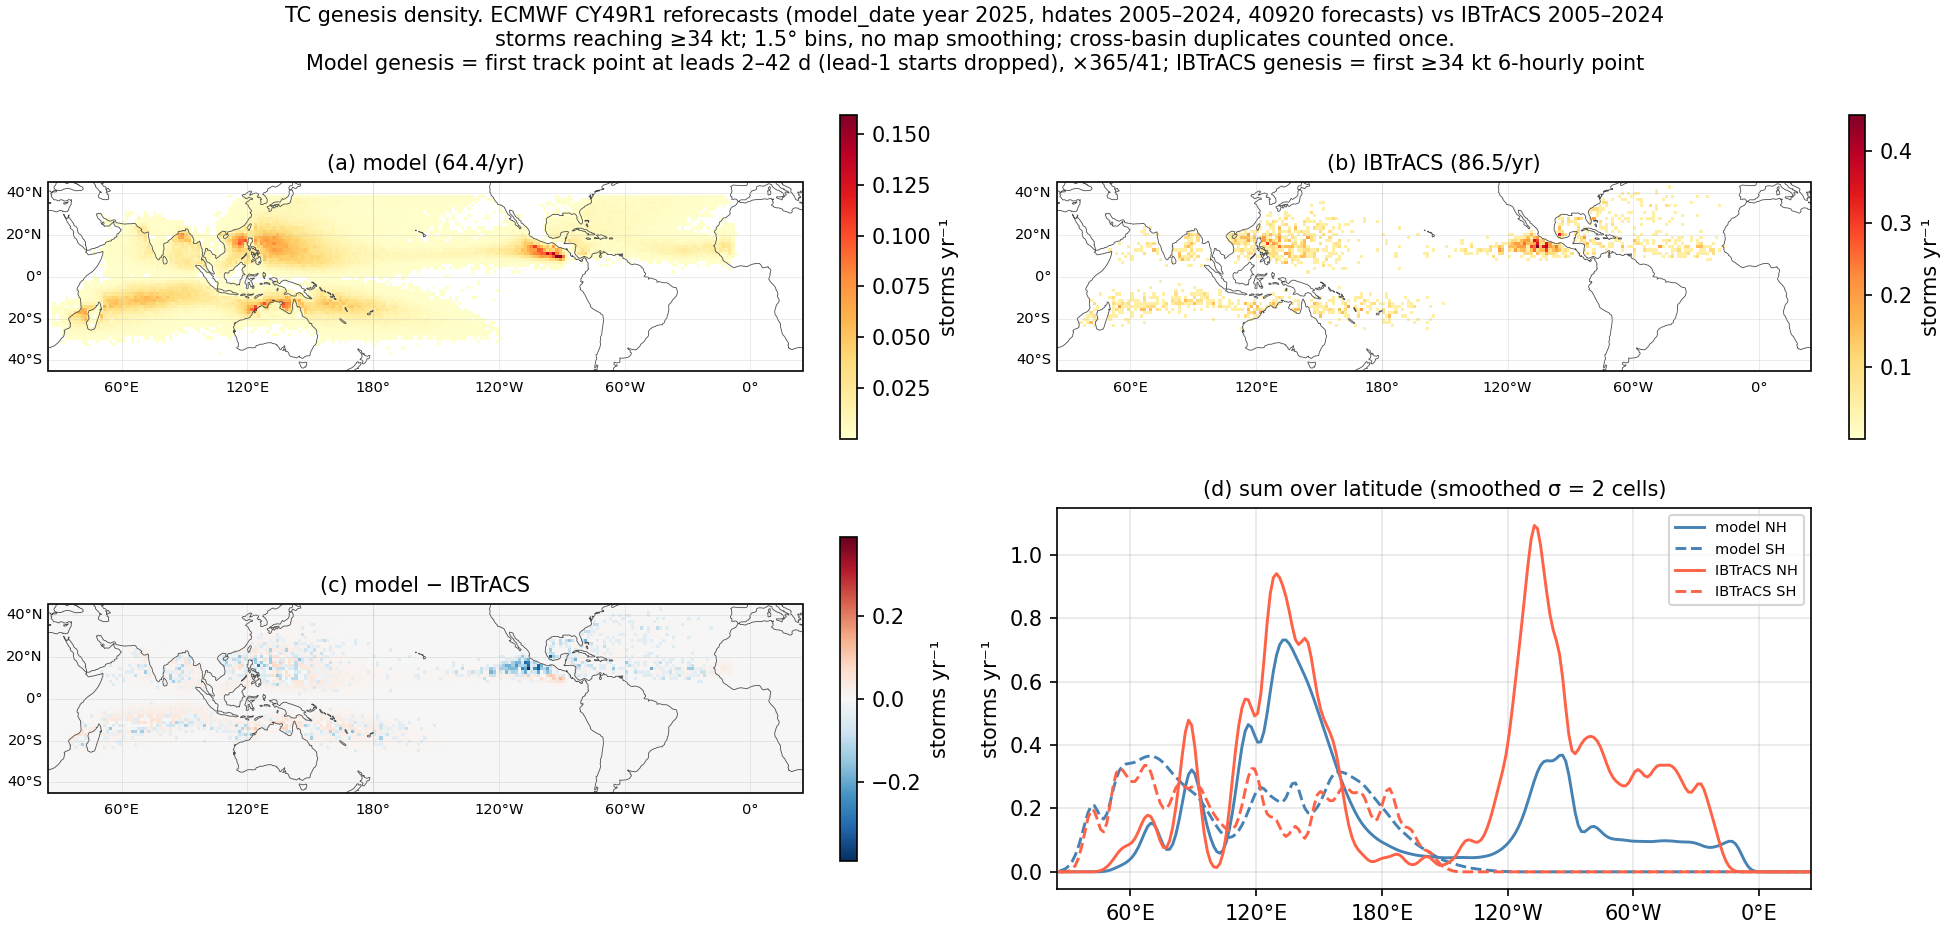
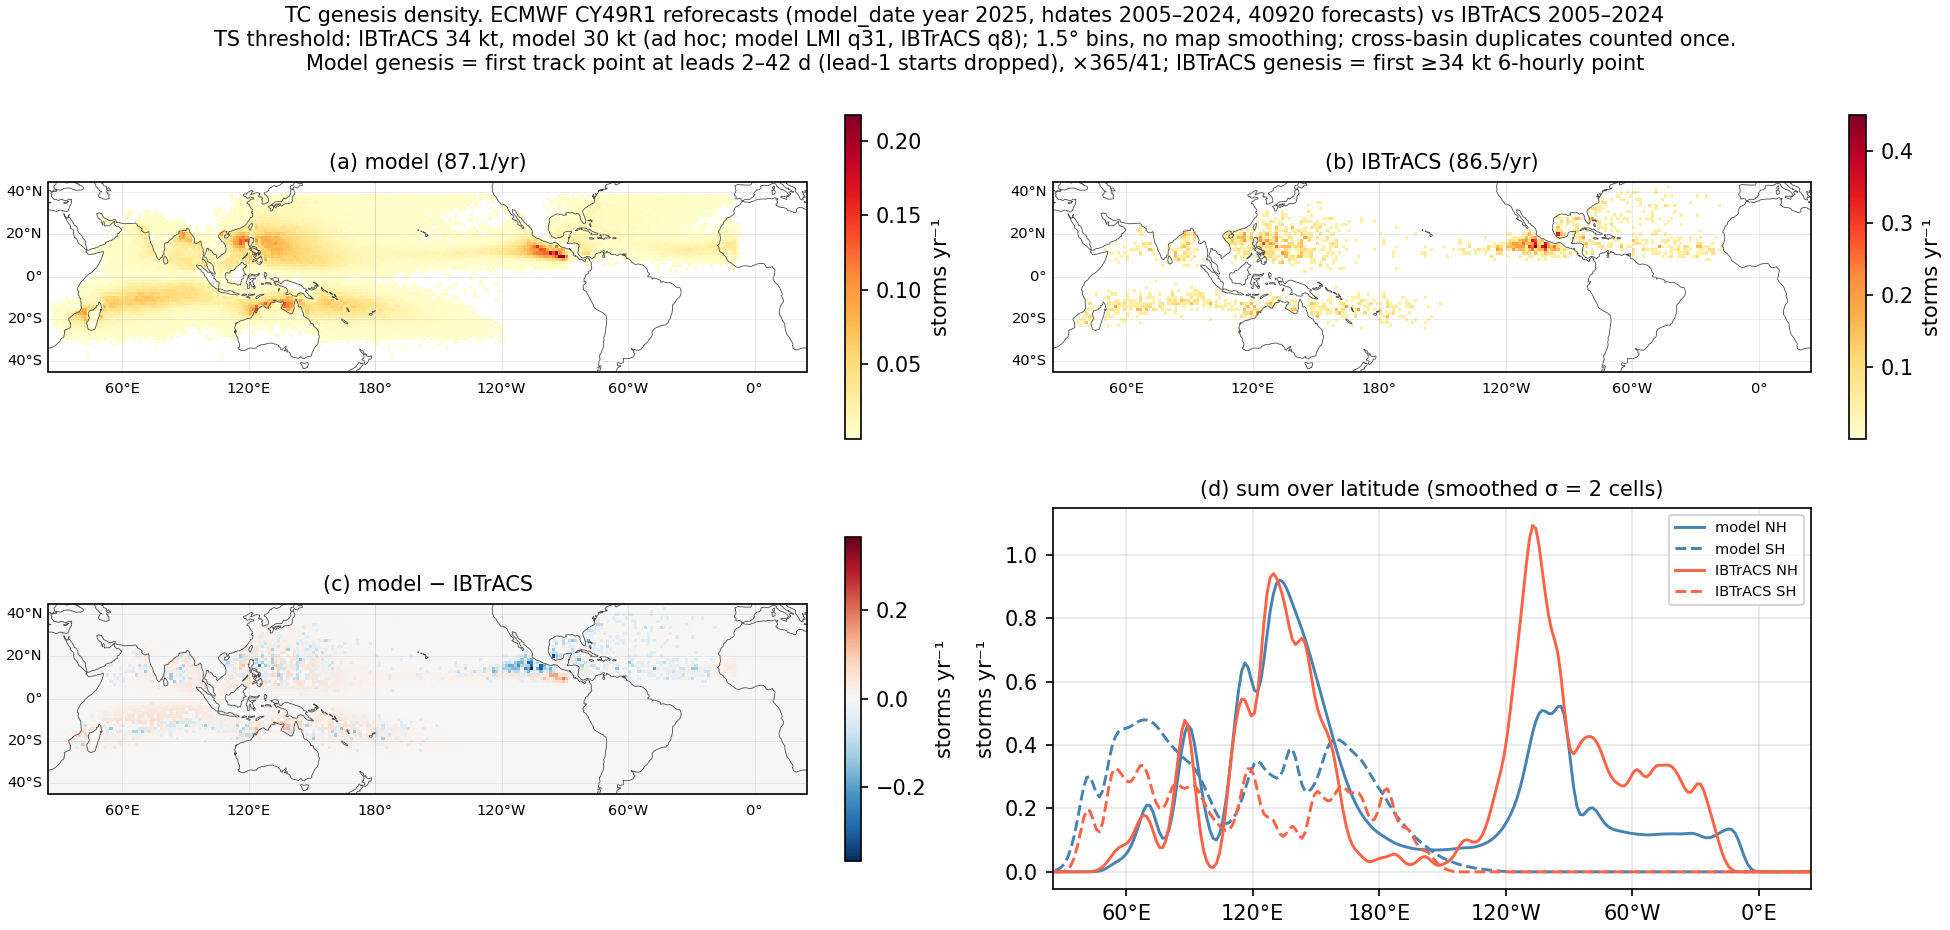
Sanity plots: ad hoc 30 kt model TS threshold
Model storms count at LMI >= 30 kt (IBTrACS 34 kt), an ad hoc choice that roughly matches
the observed global count; LMI quantiles of both thresholds are printed and shown in titles.
Spec documents the rejected alternatives (34 kt; LMI quantile matching after Lee et al. 2018).

diff --git a/scripts/sanity_plots.py b/scripts/sanity_plots.py
@@ -10,7 +10,9 @@ details go in the suptitles):
   04  monthly genesis count by source basin
 
 Definitions (see README "Sanity plots"):
-- Storms count only if lifetime max wind >= 34 kt (model and IBTrACS alike).
+- Tropical-storm threshold: IBTrACS 34 kt; model MODEL_TS_KT = 30 kt, an ad hoc choice for
+  sanity checking (see the constant). Storms count if lifetime max intensity (LMI) >=
+  threshold, and track points if wind >= threshold.
 - Model genesis = first track point. Storms whose first point is at lead 1 are dropped,
   since storms present at initialization first appear at lead 1 (no lead-0 point).
   Genesis rates use leads 2-42 and are scaled by 365/41; track-point rates use leads
@@ -41,7 +43,13 @@ MAP_CRS = ccrs.PlateCarree(central_longitude=205)  # Pacific-centred display
 CENTER_LON = 205
 EXTENT_LAT = (-45, 45)
 GRID = 1.5  # deg, density bins (S2S archive resolution)
-TS_KT = 34
+TS_KT = 34  # observed (IBTrACS) tropical-storm threshold
+# Model TS threshold: AD HOC choice (user, 2026-10-18) for these sanity checks; may be
+# revised. 30 kt is the model LMI 31st percentile (ECMWF 2025) and roughly matches the observed
+# global storm count. A quantile-matched value (Lee et al. 2018) would be 24 kt (q = 8.1%
+# from IBTrACS 2005-2024) or 27 kt (their 18%). The IBTrACS LMI quantile of 34 kt is still
+# printed as a diagnostic.
+MODEL_TS_KT = 30
 LEAD_MAX = 42
 BASIN_LABELS = {"atl": "N Atlantic", "enp": "E N Pacific", "cnp": "Central Pacific",
                 "wnp": "W N Pacific", "nin": "N Indian", "sin": "S Indian",
@@ -76,16 +84,22 @@ def dedup(p):
     return gen_ok, keep
 
 
-def model_events(p):
-    """Genesis rows (one per counted storm) and track points for storms reaching 34 kt."""
+def model_events(p, thr):
+    """Genesis rows and track points for model storms with LMI >= thr (kt).
+
+    Also returns the model LMI quantile of thr over the genesis-eligible population
+    (deduplicated, first point at leads 2..LEAD_MAX), as a diagnostic.
+    Returns (gen, pts, q_model).
+    """
     gen_ok, keep = dedup(p)
-    maxw = p.groupby("storm_uid").wind_kt.max()
-    ts_storms = maxw.index[maxw >= TS_KT]
+    lmi = p.groupby("storm_uid").wind_kt.max()
     first = p[p.point_num == 0].set_index("storm_uid")
-    gen = first.loc[first.index.isin(ts_storms) & gen_ok.reindex(first.index).to_numpy()]
-    gen = gen[gen.lead_days.between(2, LEAD_MAX)]
-    pts = p[keep & p.storm_uid.isin(ts_storms) & (p.wind_kt >= TS_KT) & (p.lead_days <= LEAD_MAX)]
-    return gen.reset_index(), pts
+    first = first[gen_ok.reindex(first.index).to_numpy() & first.lead_days.between(2, LEAD_MAX)]
+    q_model = float((lmi.reindex(first.index) < thr).mean())
+    ts_storms = lmi.index[lmi >= thr]
+    gen = first[first.index.isin(ts_storms)]
+    pts = p[keep & p.storm_uid.isin(ts_storms) & (p.wind_kt >= thr) & (p.lead_days <= LEAD_MAX)]
+    return gen.reset_index(), pts, q_model
 
 
 def ibtracs_basin(df):
@@ -104,9 +118,14 @@ def load_ibtracs(years):
                      usecols=["SID", "BASIN", "ISO_TIME", "NATURE", "TRACK_TYPE", "LAT", "LON", "USA_WIND"])
     df["ISO_TIME"] = pd.to_datetime(df.ISO_TIME)
     df["USA_WIND"] = pd.to_numeric(df.USA_WIND, errors="coerce")
-    df = df[(df.TRACK_TYPE == "main") & (df.NATURE == "TS") & (df.USA_WIND >= TS_KT)
-            & df.ISO_TIME.dt.hour.isin([0, 6, 12, 18]) & (df.ISO_TIME.dt.minute == 0)
-            & df.ISO_TIME.dt.year.isin(years)].copy()
+    df = df[(df.TRACK_TYPE == "main") & (df.NATURE == "TS")
+            & df.ISO_TIME.dt.hour.isin([0, 6, 12, 18]) & (df.ISO_TIME.dt.minute == 0)]
+    # observed LMI distribution: storms (incl. depression-only) first seen in `years`
+    first_year = df.groupby("SID").ISO_TIME.min().dt.year
+    lmi = df[df.SID.isin(first_year.index[first_year.isin(years)])].groupby("SID").USA_WIND.max().dropna()
+    q = float((lmi < TS_KT).mean())
+    print(f"IBTrACS LMI: {len(lmi)} storms with USA_WIND; P(LMI < {TS_KT} kt) = {q:.3f}")
+    df = df[(df.USA_WIND >= TS_KT) & df.ISO_TIME.dt.year.isin(years)].copy()
     df["lat"] = df.LAT.astype(float)
     df["lon360"] = df.LON.astype(float) % 360
     df["basin"] = ibtracs_basin(df)
@@ -114,7 +133,7 @@ def load_ibtracs(years):
     pts = df[df.ISO_TIME.dt.hour == 0]
     print(f"IBTrACS {min(years)}-{max(years)}: {len(gen)} storms >= {TS_KT} kt; "
           f"genesis basin 'other' (e.g. S Atlantic): {(gen.basin == 'other').sum()}")
-    return gen, pts
+    return gen, pts, q
 
 
 # --------------------------------------------------------------------------- helpers
@@ -217,7 +236,7 @@ def fig_tracks(p, hdate_year, every, out):
     print("wrote", out)
 
 
-def fig_monthly(gen, n_fcst, ibt_gen, years, n_boot, out, cyc):
+def fig_monthly(gen, n_fcst, ibt_gen, years, n_boot, out, cyc, ts_note):
     rng = np.random.default_rng(0)
     months = np.arange(1, 13)
     mod = (gen.groupby([gen.basin, gen.valid_time.dt.month]).size()
@@ -240,7 +259,7 @@ def fig_monthly(gen, n_fcst, ibt_gen, years, n_boot, out, cyc):
         ax.set_ylabel("storms / month")
         ax.legend(fontsize=7, loc="upper right" if b in ("sin", "aus", "spc") else "upper left")
     fig.suptitle(f"Monthly TC genesis by basin, ECMWF {cyc} reforecasts (hdates {min(years)}–{max(years)}) vs IBTrACS. "
-                 f"Storms reaching ≥{TS_KT} kt; model: first point at leads 2–{LEAD_MAX} d, mean over {n_fcst} forecasts × 365/{LEAD_MAX - 1}, "
+                 f"{ts_note}; model: first point at leads 2–{LEAD_MAX} d, mean over {n_fcst} forecasts × 365/{LEAD_MAX - 1}, "
                  f"month of genesis; IBTrACS: first ≥{TS_KT} kt point, 95% CI from {n_boot} bootstrap resamples of years",
                  fontsize=9, wrap=True)
     fig.savefig(out, dpi=150)
@@ -258,12 +277,16 @@ def main(center, year, hdate_year, every, n_boot):
 
     fig_tracks(p, hdate_year, every, out / f"sanity_01_tracks_md{year}_h{hdate_year}_m00.png")
 
-    gen, pts = model_events(p)
-    ibt_gen, ibt_pts = load_ibtracs(years)
-    print(f"model: {len(gen)} genesis events, {len(pts)} track points >= {TS_KT} kt over {n_fcst} forecasts")
+    ibt_gen, ibt_pts, q = load_ibtracs(years)
+    gen, pts, q_model = model_events(p, MODEL_TS_KT)
+    print(f"model TS threshold {MODEL_TS_KT} kt (ad hoc) = model LMI q{100 * q_model:.1f} "
+          f"(IBTrACS {TS_KT} kt = q{100 * q:.1f}); {len(gen)} genesis events, {len(pts)} track points "
+          f"over {n_fcst} forecasts")
+    ts_note = (f"TS threshold: IBTrACS {TS_KT} kt, model {MODEL_TS_KT} kt (ad hoc; model LMI q{100 * q_model:.0f}, "
+               f"IBTrACS q{100 * q:.0f})")
 
     common = (f"ECMWF {cyc} reforecasts (model_date year {year}, hdates {min(years)}–{max(years)}, "
-              f"{n_fcst} forecasts) vs IBTrACS {min(years)}–{max(years)}\nstorms reaching ≥{TS_KT} kt; "
+              f"{n_fcst} forecasts) vs IBTrACS {min(years)}–{max(years)}\n{ts_note}; "
               f"{GRID}° bins, no map smoothing; cross-basin duplicates counted once")
     H_mod = density(gen.lon360, gen.lat) / n_fcst * 365 / (LEAD_MAX - 1)
     H_obs = density(ibt_gen.lon360, ibt_gen.lat) / len(years)
@@ -275,11 +298,11 @@ def main(center, year, hdate_year, every, n_boot):
     H_mod = density(pts.lon360, pts.lat) / n_fcst * 365 / LEAD_MAX
     H_obs = density(ibt_pts.lon360, ibt_pts.lat) / len(years)
     density_figure(H_mod, H_obs,
-                   f"TC track density. {common}.\nPoints with wind ≥{TS_KT} kt: model daily 00Z at leads 1–{LEAD_MAX} d, "
+                   f"TC track density. {common}.\nPoints at or above threshold: model daily 00Z at leads 1–{LEAD_MAX} d, "
                    f"×365/{LEAD_MAX}; IBTrACS 00Z points (daily, as the model). Shared colour scale for (a), (b)",
                    "storm-days yr⁻¹", out / f"sanity_03_track_density_md{year}.png", "Blues", shared_scale=True)
 
-    fig_monthly(gen, n_fcst, ibt_gen, years, n_boot, out / f"sanity_04_monthly_genesis_md{year}.png", cyc)
+    fig_monthly(gen, n_fcst, ibt_gen, years, n_boot, out / f"sanity_04_monthly_genesis_md{year}.png", cyc, ts_note)
 
 
 if __name__ == "__main__":

diff --git a/specs/sanity_plots.md b/specs/sanity_plots.md
@@ -25,12 +25,17 @@ by basin, all against IBTrACS. These are not production figures.
    - A storm whose first point is co-located with a partner is not a genesis if that partner
      started earlier, or started at the same time with a lexicographically smaller storm_uid.
    - A co-located point is kept only on the storm with the smallest uid in its `dup_of` set.
-2. **Storm selection.** Keep storms with lifetime max `wind_kt` ≥ 34.
-3. **Model genesis.** The first point (point_num 0) of a selected, genesis-eligible storm with
+2. **TS thresholds.** IBTrACS 34 kt; model T = `MODEL_TS_KT` = 30 kt (ad hoc).
+   - Diagnostics printed and put in titles: the IBTrACS LMI quantile of 34 kt, i.e.
+     P(LMI < 34) over storms first seen in the hdate years (depression-only storms included,
+     no-`USA_WIND` storms excluded); and the model LMI quantile of T over the
+     genesis-eligible population (deduplicated, first point at leads 2…42).
+3. **Storm selection.** Keep model storms with LMI ≥ T. IBTrACS keeps LMI ≥ 34 kt.
+4. **Model genesis.** The first point (point_num 0) of a selected, genesis-eligible storm with
    `lead_days` in 2…42. Storms first seen at lead 1 are dropped.
    - Rate per cell or month = count / N_fcst × 365/41, where N_fcst = rows of `members`.
-4. **Model track points.** Points of selected storms with wind ≥ 34 kt, lead ≤ 42, kept by
-   the dedup rule. Rate = count / N_fcst × 365/42 (storm-days per year).
+5. **Model track points.** Points of selected storms with wind ≥ T, lead ≤ 42, kept by the
+   dedup rule. Rate = count / N_fcst × 365/42 (storm-days per year).
 5. **IBTrACS.**
    - Genesis = first filtered (≥34 kt) 6-hourly point per SID.
    - Track points = filtered points at 00Z only, matching the model's daily cadence.
@@ -54,7 +59,8 @@ by basin, all against IBTrACS. These are not production figures.
 ## 5. Constants & Scientific Rationale
 | name | value | why |
 |---|---|---|
-| `TS_KT` | 34 kt | user choice (a), 2026-10-18: like-for-like with the IBTrACS ≥34 kt filter. Caveat: CY49R1 winds run high compared with earlier cycles |
+| `TS_KT` | 34 kt | observed TS threshold. It is used directly for IBTrACS, and its LMI quantile sets the model threshold |
+| `MODEL_TS_KT` | 30 kt | **Ad hoc** (user, 2026-10-18), for sanity checking only; may be revised. It roughly matches the observed global count (ECMWF 2025: 87.1 vs 86.5 storms/yr) and is the model LMI 31st percentile. Rejected: 34 kt (64/yr, CY49R1 winds not comparable to obs); LMI quantile matching after Lee et al. (2018, WAF 33, doi:10.1175/WAF-D-17-0165.1), which gives 24 kt with q = 8.1% from IBTrACS 2005–2024, or 27 kt with their 18%. The observed q is low because SI/SP agencies rarely archive depressions (0–1% of storms there, against 12–14% in WP/EP) |
 | lead-1 drop | first point at lead 1 → not genesis | user decision 2026-10-18. No lead-0 point exists, so storms present at initialization first appear at lead 1. All 4,988 storms first seen poleward of 38° start at lead 1 |
 | `LEAD_MAX` | 42 d | window of 6 whole weeks, as in the neuralGCM project; genesis scale 365/41 because lead 1 is excluded |
 | `GRID` | 1.5° | S2S archive resolution; default proposed 2026-10-18, not objected to |
@@ -72,26 +78,30 @@ by basin, all against IBTrACS. These are not production figures.
 - **Run from `scripts/`** (sibling imports).
 
 ## Open items
-- N Atlantic and E N Pacific counts are ~1/3 of IBTrACS at the 34 kt threshold. Decision:
-  re-plot all tracked storms (any intensity) to separate a missing-disturbance problem from
-  a weak-intensity problem.
+- `MODEL_TS_KT` = 30 kt is ad hoc. Decision: keep it, or adopt a principled rule
+  (quantile matching with a basin-consistent observed q, a fixed 18%, or per-cycle matching
+  for multi-cycle use).
+- At 30 kt, N Atlantic and E N Pacific are still about half of IBTrACS (7.5 and 9.5 vs
+  16.4/yr), while the SH and WNP are over. Decision: is the AL/EP deficit a model property
+  to document, or worth checking with all tracked storms?
 
 ## 7. Synchronization Log
 | date | code change | spec updated |
 |---|---|---|
 | 2026-10-18 | created; production run n_boot = 10000 on the ECMWF 2025 model_date year | created |
+| 2026-10-18 | model TS threshold: 34 kt → LMI quantile matching (24 kt) → ad hoc `MODEL_TS_KT` = 30 kt; IBTrACS LMI quantile printed as a diagnostic | Algorithm 2–5, Constants, Open items |
 
 ## Verification snippet
 ```python
 import sys; sys.path.insert(0, "scripts")
 import sanity_plots as s
 p, m = s.load_model("ecmwf", 2025)
-gen, pts = s.model_events(p)
-assert gen.lead_days.between(2, 42).all() and (pts.wind_kt >= 34).all()
+gen, pts, q_model = s.model_events(p, s.MODEL_TS_KT)
+assert gen.lead_days.between(2, 42).all() and (pts.wind_kt >= s.MODEL_TS_KT).all()
 assert gen.storm_uid.is_unique
 rate = len(gen) / len(m) * 365 / 41
 assert 40 < rate < 100, rate   # global storms per year
-ig, ip = s.load_ibtracs(list(range(2005, 2025)))
+ig, ip, q = s.load_ibtracs(list(range(2005, 2025)))
 assert (ig.basin != "other").all() and (ip.ISO_TIME.dt.hour == 0).all()
 print(f"ok: model {rate:.1f}/yr, IBTrACS {len(ig) / 20:.1f}/yr")
 ```

diff --git a/README.md b/README.md
@@ -88,7 +88,8 @@ one hdate year of tracks (one member), genesis density, track density, and month
 by basin, all against IBTrACS v04r01 (`data/obs/`, downloaded from NCEI). These are
 exploratory figures; the definitions are in the script docstring and the figure titles.
 Key choices:
-- Storms count if they reach ≥34 kt.
+- Storms count if their lifetime max wind reaches 34 kt (IBTrACS) or 30 kt (model). The model
+  value is an ad hoc choice that roughly matches the observed global count, and may be revised.
 - Model genesis is the first track point. Storms first seen at lead 1 are dropped: they may
   already exist at initialization.
 - Rates are per-forecast means × 365/41 (genesis, leads 2–42) or × 365/42 (track points).
